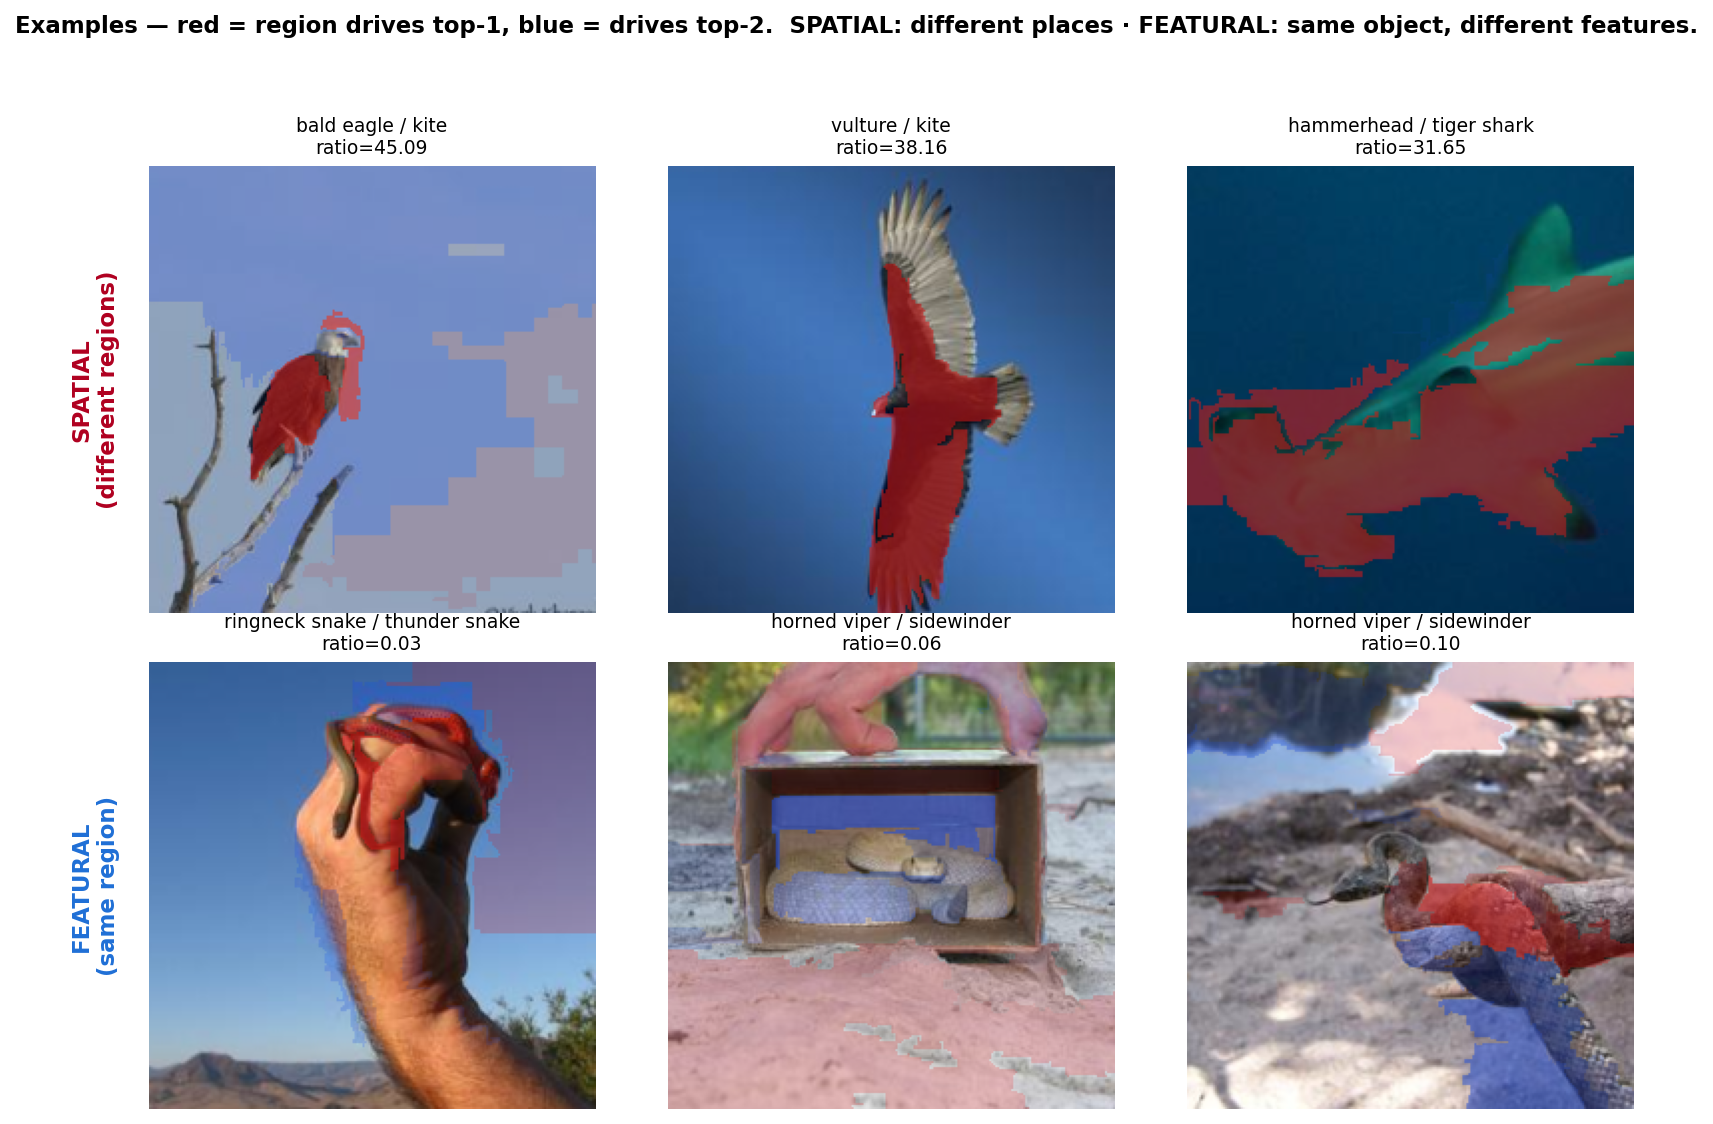
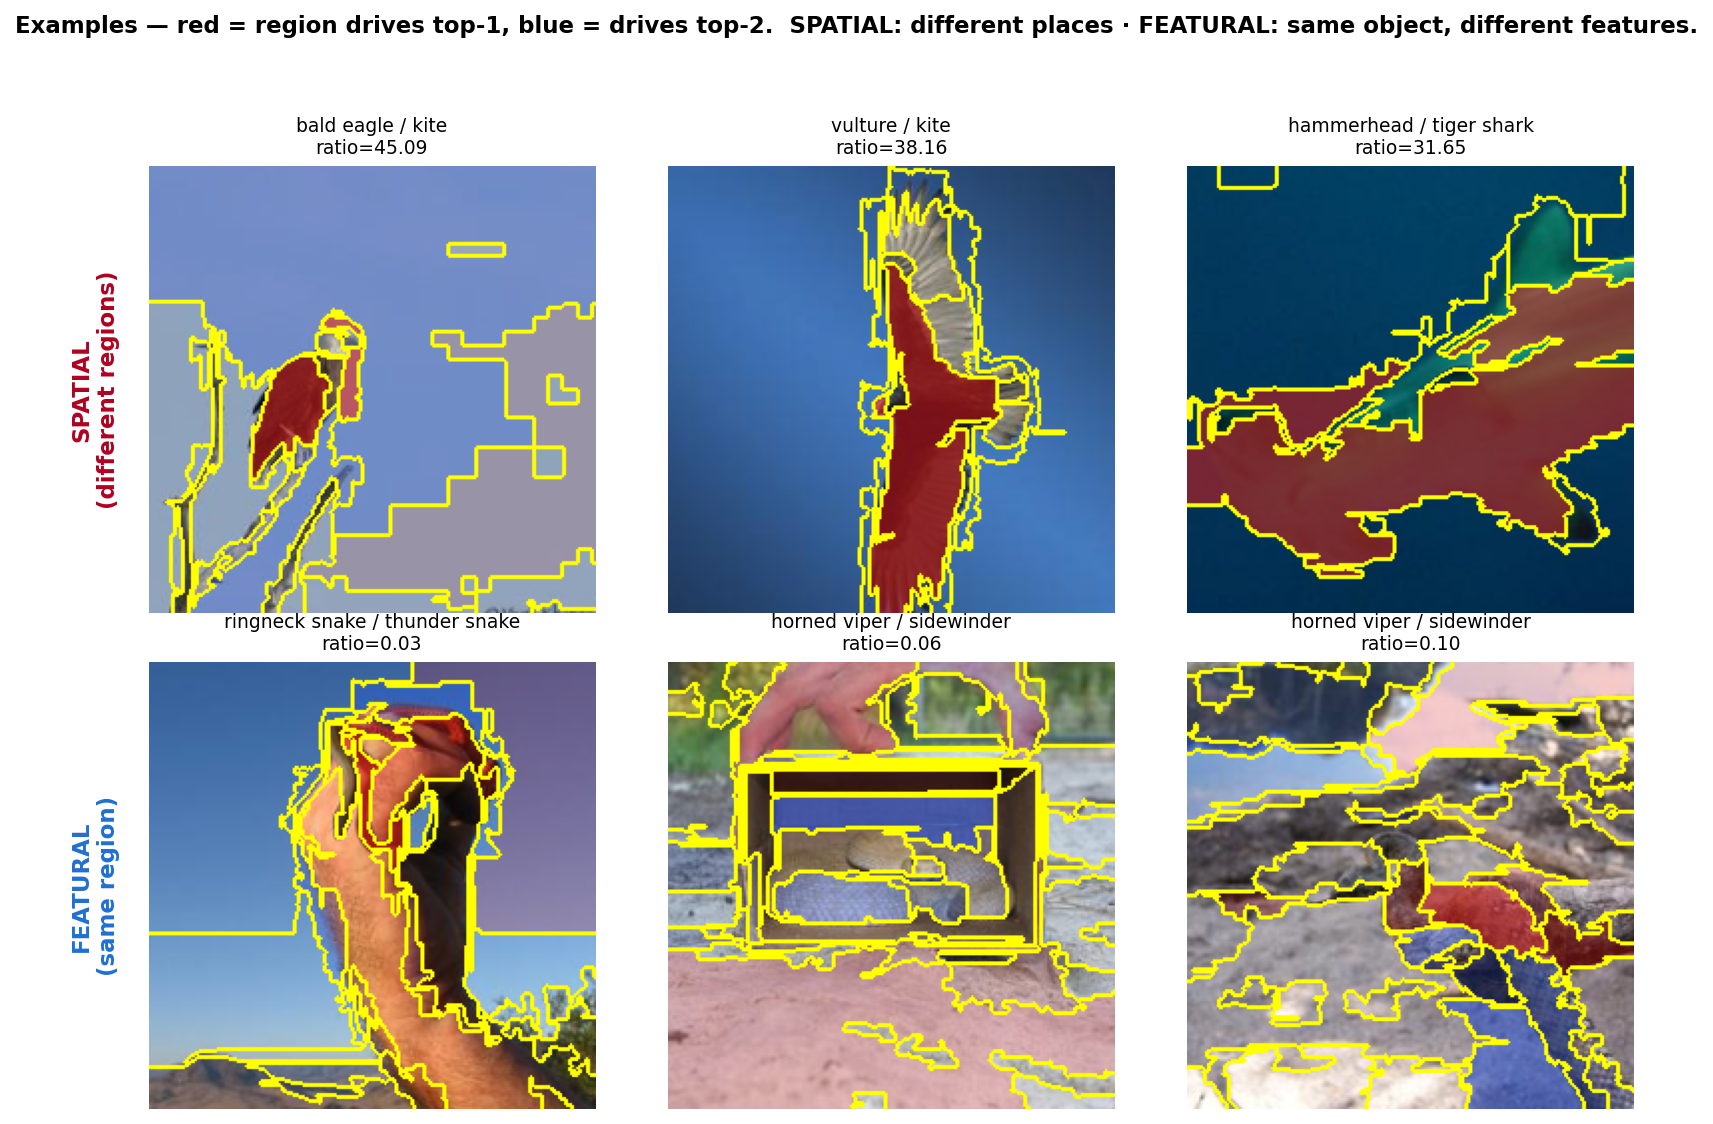
Draw Felzenszwalb segment boundaries on occlusion example overlays
Yellow superpixel edges on example figures (highlight is per-segment);
montage opts out (bd=False) to avoid mesh clutter at 100-cell scale.

diff --git a/infocube-main/occlusion_classsens.py b/infocube-main/occlusion_classsens.py
@@ -98,14 +98,21 @@ recs = recs[:len(sel)]; n = len(recs)
 def denorm_np(xh):
     x = torch.from_numpy(xh.astype(np.float32))
     return (x*_std+_mean).clamp(0,1).permute(1,2,0).numpy()
-def disc_overlay(rec):
+def boundaries(seg):
+    b = np.zeros(seg.shape, bool)
+    b[:-1,:] |= seg[:-1,:]!=seg[1:,:]; b[1:,:] |= seg[:-1,:]!=seg[1:,:]
+    b[:,:-1] |= seg[:,:-1]!=seg[:,1:]; b[:,1:] |= seg[:,:-1]!=seg[:,1:]
+    return b
+def disc_overlay(rec, bd=True):
     seg, d1, d2 = rec['seg'].astype(int), rec['d1'], rec['d2']; diff = d1 - d2
     disc = np.abs(diff) >= np.quantile(np.abs(diff), 1-DR_FRAC)
     im = denorm_np(rec['x'])
     sgn = (np.where(disc, np.sign(diff), 0)*np.abs(diff))[seg]
     mag = np.abs(sgn)/(np.abs(sgn).max()+EPS); al = (0.55*mag)[...,None]
     col = np.where((sgn>0)[...,None], np.array([0.85,0.1,0.1]), np.array([0.1,0.3,0.9]))
-    return np.clip(im*(1-al)+col*al, 0, 1)
+    o = np.clip(im*(1-al)+col*al, 0, 1)
+    if bd: o[boundaries(seg)] = [1.0,1.0,0.0]                                    # yellow superpixel edges
+    return o
 def heat(im, m, cmap):
     mn = np.clip(m/(m.max()+EPS),0,1); h = cm.get_cmap(cmap)(mn)[...,:3]; al=(0.30+0.5*mn)[...,None]
     return np.clip(im*(1-al)+h*al,0,1)
@@ -141,7 +148,7 @@ else:
     for k in range(rows*cols):
         a = ax[k//cols, k%cols]; a.axis('off')
         if k < n:
-            a.imshow(disc_overlay(recs[k]))
+            a.imshow(disc_overlay(recs[k], bd=False))          # montage: no boundaries (too busy at scale)
             a.set_title(f"{cats[recs[k]['y1']].split(',')[0][:10]} / {cats[recs[k]['y2']].split(',')[0][:10]}",
                         fontsize=5.5)
     fig.legend(handles=legend, loc='lower center', ncol=2, fontsize=11, bbox_to_anchor=(0.5, -0.01))

diff --git a/infocube-main/occlusion_1k.py b/infocube-main/occlusion_1k.py
@@ -162,13 +162,19 @@ plt.tight_layout(rect=[0,0,1,0.95]); plt.savefig('cs_viz_outputs/occlusion_1k_st
 print('saved cs_viz_outputs/occlusion_1k_stats.png')
 
 # ── examples (3 most-spatial + 3 most-featural), recomputed on demand ────────────────────
+def boundaries(seg):
+    b = np.zeros(seg.shape, bool)
+    b[:-1,:] |= seg[:-1,:]!=seg[1:,:]; b[1:,:] |= seg[:-1,:]!=seg[1:,:]
+    b[:,:-1] |= seg[:,:-1]!=seg[:,1:]; b[:,1:] |= seg[:,:-1]!=seg[:,1:]
+    return b
 def overlay(i, y1, y2):
     x = img_of(pool[i]).to(DEVICE); seg = get_segments(x); d1,d2,_ = seg_delta(x, y1, y2, seg)
     diff = d1 - d2; disc = np.abs(diff) >= np.quantile(np.abs(diff), 1-DR_FRAC)
     im = (x.cpu()*_std+_mean).clamp(0,1).permute(1,2,0).numpy()
     sgn = (np.where(disc, np.sign(diff), 0)*np.abs(diff))[seg]; mag = np.abs(sgn)/(np.abs(sgn).max()+EPS)
     al=(0.55*mag)[...,None]; col=np.where((sgn>0)[...,None], np.array([0.85,0.1,0.1]), np.array([0.1,0.3,0.9]))
-    return np.clip(im*(1-al)+col*al,0,1)
+    o = np.clip(im*(1-al)+col*al,0,1); o[boundaries(seg)] = [1.0,1.0,0.0]      # yellow superpixel edges
+    return o
 order = np.argsort(conf); featural_i = order[:3]; spatial_i = order[::-1][:3]
 fig, ax = plt.subplots(2, 3, figsize=(11, 7.6), facecolor='white')
 for c, k in enumerate(spatial_i):

diff --git a/infocube-main/occlusion_spatial_featural.py b/infocube-main/occlusion_spatial_featural.py
@@ -79,6 +79,11 @@ plt.tight_layout(rect=[0,0,1,0.95]); plt.savefig('cs_viz_outputs/occlusion_spati
 print('saved cs_viz_outputs/occlusion_spatial_featural_stats.png')
 
 # ── figure 2: examples (3 most-spatial, 3 most-featural) with regions highlighted ────────
+def boundaries(seg):
+    b = np.zeros(seg.shape, bool)
+    b[:-1,:] |= seg[:-1,:]!=seg[1:,:]; b[1:,:] |= seg[:-1,:]!=seg[1:,:]
+    b[:,:-1] |= seg[:,:-1]!=seg[:,1:]; b[:,1:] |= seg[:,:-1]!=seg[:,1:]
+    return b
 def overlay(rec):
     seg, d1, d2 = rec['seg'].astype(int), rec['d1'], rec['d2']; diff = d1 - d2
     disc = np.abs(diff) >= np.quantile(np.abs(diff), 1-DR_FRAC)
@@ -86,7 +91,8 @@ def overlay(rec):
     sgn = (np.where(disc, np.sign(diff), 0)*np.abs(diff))[seg]
     mag = np.abs(sgn)/(np.abs(sgn).max()+EPS); al=(0.55*mag)[...,None]
     col = np.where((sgn>0)[...,None], np.array([0.85,0.1,0.1]), np.array([0.1,0.3,0.9]))
-    return np.clip(im*(1-al)+col*al,0,1)
+    o = np.clip(im*(1-al)+col*al,0,1); o[boundaries(seg)] = [1.0,1.0,0.0]         # yellow superpixel edges
+    return o
 order = np.argsort(conf)
 featural_idx = order[:3]; spatial_idx = order[::-1][:3]
 fig, ax = plt.subplots(2, 3, figsize=(11, 7.6), facecolor='white')
